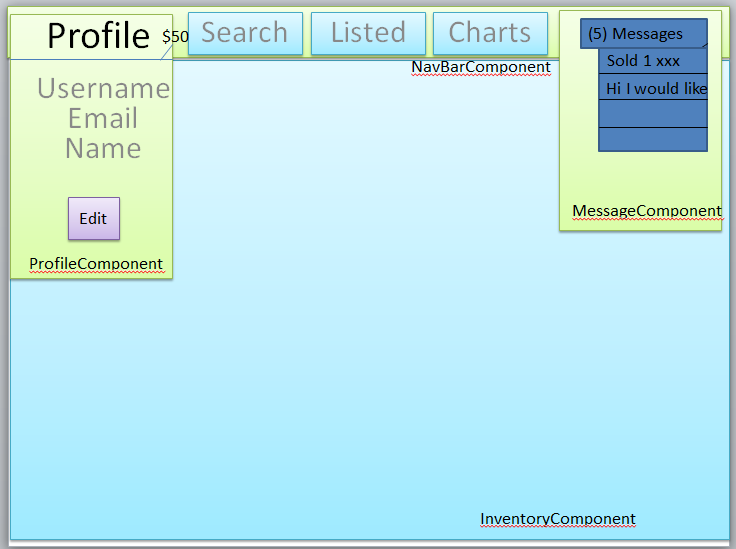
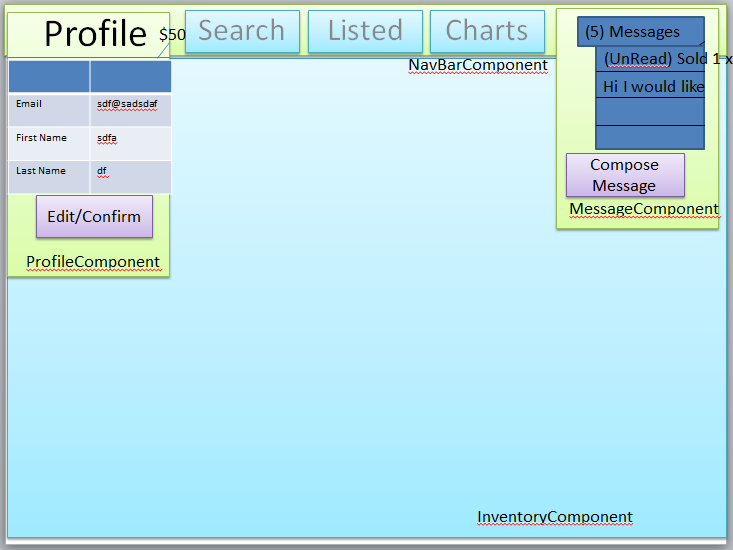
drafted more wireframes

Changed region(s): [[0.0, 0.0, 1.0, 1.0], [0.7503, 0.2168, 0.9905, 0.4335]]

diff --git a/srs.md b/srs.md
@@ -52,12 +52,22 @@ The following is a list estimated user functionality, users can:
   - View price of item type over time
   - TODO: ?idea? search criteria price over time?
 
-### 3.2.3 Operating Environment
+### 3.2.3 Deferred Functions
+
+The following is a list of functionality deferred for version 2 of the system
+
+ - Items
+  - Upload item image
+
+ - Listings
+  - Sell item (search for similar items to check recommended price)
+
+### 3.2.4 Operating Environment
 
 - Users will be able to use this software from a website GUI. It should work identically on ?Internet Explorer?, Firefox and Chrome on PC's and mobiles.
 - Multiple users can use the software at any time
 
-### 3.2.4 Domain Entities
+### 3.2.5 Domain Entities
 - User
 - Account
 - Message
@@ -73,7 +83,7 @@ The following is a list estimated user functionality, users can:
 - Search result
 - Transaction
 
-### 3.2.5 Actors
+### 3.2.6 Actors
 
 The following are the types of users that may use this software.
 
@@ -90,7 +100,7 @@ The following are the types of users that may use this software.
 
 TODO: Expand these actors into extra requirements
 
-### 3.2.6 List of tasks
+### 3.2.7 List of tasks
 
 These are the tasks that are required to be supported by the software solution.
 
@@ -115,7 +125,7 @@ These are the tasks that are required to be supported by the software solution.
 19. Sort search result list
 20. View price of item-type over time
 
-### 3.2.7 CRUD Check
+### 3.2.8 CRUD Check
 
 #### CRUD Table
 ![Crud Table](crud.PNG)
@@ -225,7 +235,7 @@ Functional Requirements](http://www.itu.dk/~slauesen/Papers/IEEEtasks.pdf).
   1. displays message notification
   2. user views messages | user navigates to message log
   3. collect message to view | clicks on message to view
-  4. displays content of message | message is displayed
+  4. displays content of message - Message is recorded as read | message is displayed
 - **Variants:**
   - 1a. clicks on message notification | opens message log page
   - 1b. clicks on messages from menu | opens message log page
@@ -257,9 +267,6 @@ Functional Requirements](http://www.itu.dk/~slauesen/Papers/IEEEtasks.pdf).
   2. user selects compose item | use clicks on compose item button
   3. collect item name | enters details into text box
   4. collect item attributes | enters details into text boxs
-  5. collect item tags | enters details into text box
-  6. collect item category | enters details into text, it autocompletes whilst the user is typing
-  7. collect item-type | enters details into text, it autocompletes whilst the user is typing
   8. collect item image | a upload dialog opens, allowing the user to select an image to upload
   9. confirm item | user clicks 'create item'
   10. display item | the item is displayed via the view item task

diff --git a/tdd.md b/tdd.md
@@ -32,6 +32,9 @@ TODO: Update this to reflect technologies research page
 
 https://www.lucidchart.com/documents/edit/299c93a7-91aa-4bd3-b2d2-2c8fcfa3b7c4#
 ![data model](data_model.PNG)
+TODO:
+- change AttributeValue : amount -> value, also add AttributeValue.type (e.g. enum, int, real etc...)
+- Item aquired date (from buying or constructing)
 
 ### Candidate Classes
 #### List
@@ -57,13 +60,28 @@ TODO: find a website that can do this better than PowerPoint
 #### Landing/Profile Page - Focus on mail and profile view
 ![profile page](pg_2.PNG)
 
+#### Landing/Profile Page - Focus on message view
+![profile page](pg_message_view.PNG)
+
+#### Landing/Profile Page - Focus on message view
+![profile page](pg_message_send.PNG)
+
 #### Landing/Profile Page - Focus on inventory
 ![profile page](pg_3.PNG)
+
+#### Landing/Profile Page - Focus on inventory search
+![profile page](pg_inventory_search.PNG)
 
 #### Landing/Profile Page - Focus on item inspection view
 ![profile page](pg_4.PNG)
 
+#### Landing/Profile Page - Focus on item sell
+![profile page](pg_item_sell.PNG)
+
 #### Landing/Profile Page - Focus on item construction view
 ![profile page](pg_5.PNG)
+
+#### Landing/Profile Page - Focus on item image selection
+![profile page](pg_item_image_selection.PNG)
 
 ### Use Cases
